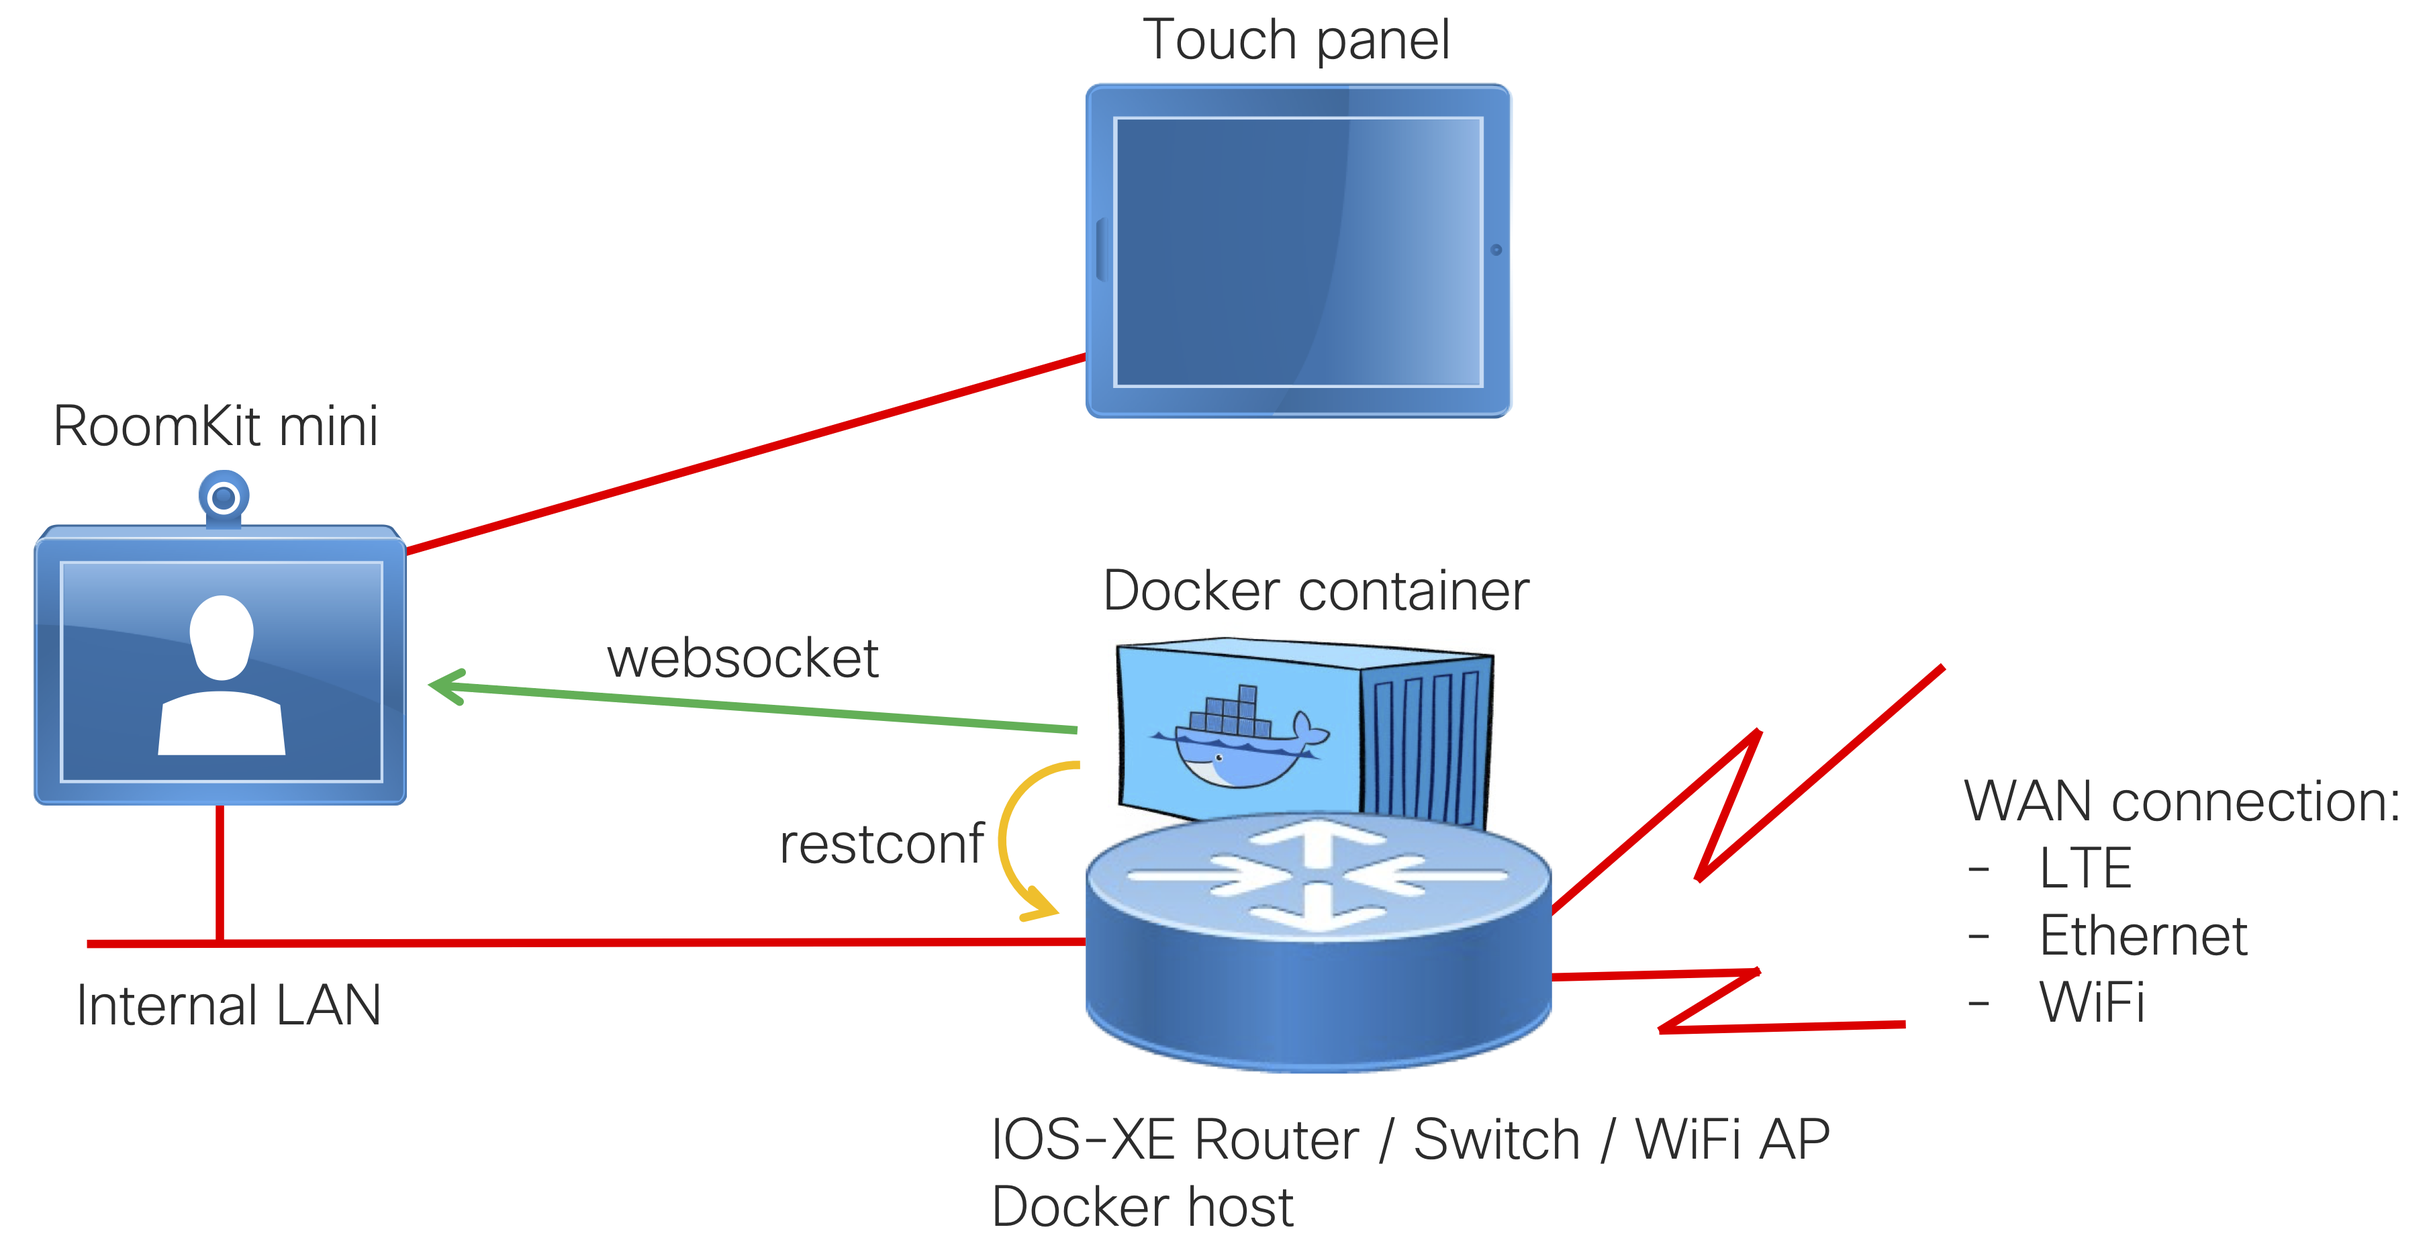
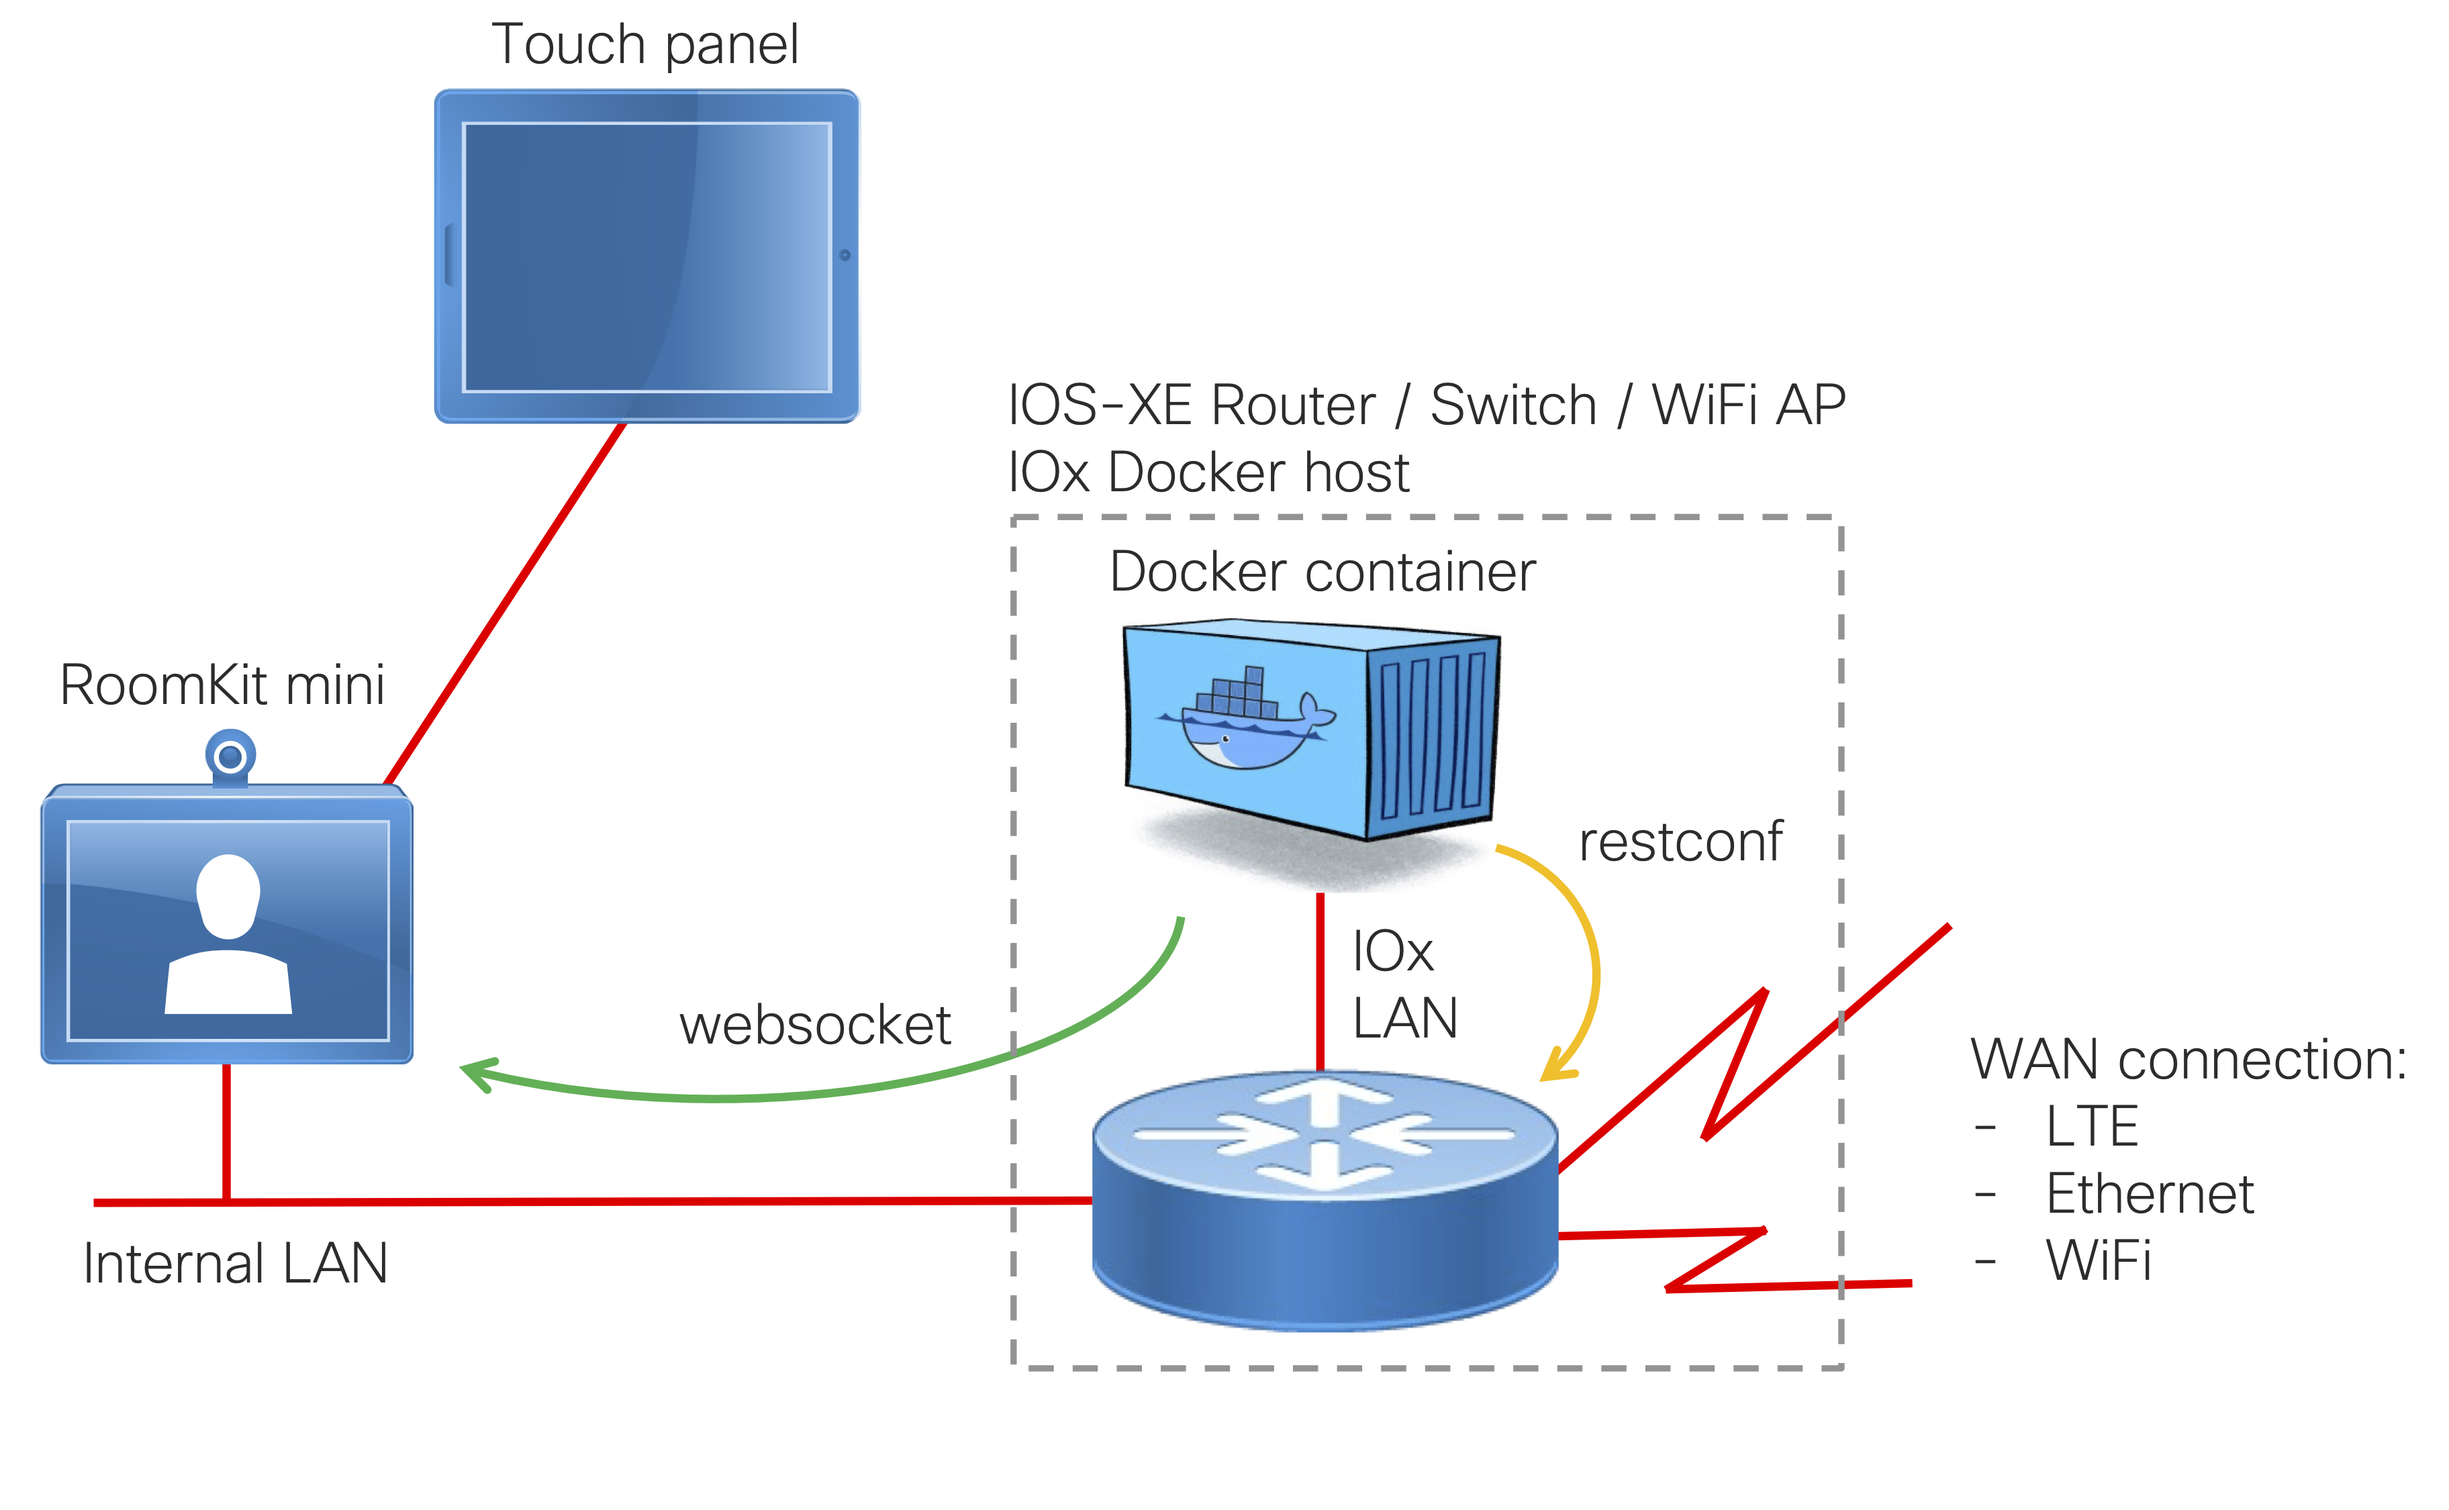
readme

diff --git a/README.md b/README.md
@@ -30,8 +30,42 @@ and for receiving notifications (feedback) from codec - for example touch interf
 **Restconf** is used to get an information from the router. It can also be used to send configuration changes
 or other commands to the router.
 
-## Restconf
-In order to create Restconf request [Cisco YANG Suite](https://developer.cisco.com/yangsuite/) is an essential tool.
-It can get a list of YANG models supported by the specific router type and IOS version. Then the user can explore the
-YANG models and prepare the Restconf query and its parameters. [Postman](https://www.postman.com/) can be then
-used for Restconf query testing. 
+### Restconf
+In order to create Restconf request [Cisco YANG Suite](https://developer.cisco.com/yangsuite/) is an essential tool
+(get it from [Github](https://github.com/CiscoDevNet/yangsuite)).
+YANG Suite can pull a list of YANG models from the router. Then the user can explore the YANG models and prepare the
+Restconf query and its parameters. [Postman](https://www.postman.com/) can be then used for Restconf query testing. Some 
+examples of Restconf queries can be found [here](https://www.cisco.com/c/en/us/td/docs/ios-xml/ios/prog/configuration/171/b_171_programmability_cg/restconf_protocol.html)
+
+### IOx
+[IOx](https://developer.cisco.com/site/iox/) is a virtualization environment and a set of management tools which allow to host [Cisco Guesthell](https://community.cisco.com/t5/developer-general-blogs/introducing-python-and-guest-shell-on-ios-xe-16-5/ba-p/3661394)
+applications or Docker containers on Cisco IOS-XE routers and switches. Documentation and examples can be found [here](https://developer.cisco.com/docs/iox/)
+
+### Router configuration
+Following is a router configuration for Restconf and IOx with Docker container **codec_ws**. The web server provides
+access to Restconf API and to [WebUI](https://www.cisco.com/c/en/us/td/docs/routers/access/4400/software/configuration/xe-16-9/isr4400swcfg-xe-16-9-book/using_the_management_interfaces.html) for IOx applications management.  
+```
+aaa authentication login default local
+aaa authorization exec default local 
+aaa authorization network default local 
+!
+username admin privilege 15 password 0 admin
+!
+interface VirtualPortGroup0
+ ip address 192.168.250.1 255.255.255.0
+ ip nat inside
+ ip virtual-reassembly
+!
+ip http server
+ip http authentication local
+ip http secure-server
+!
+app-hosting appid codec_ws
+ app-vnic gateway0 virtualportgroup 0 guest-interface 0
+  guest-ipaddress 192.168.250.2 netmask 255.255.255.0
+ app-default-gateway 192.168.250.1 guest-interface 0
+ name-server0 192.168.21.50
+ start
+netconf-yang
+restconf
+```
